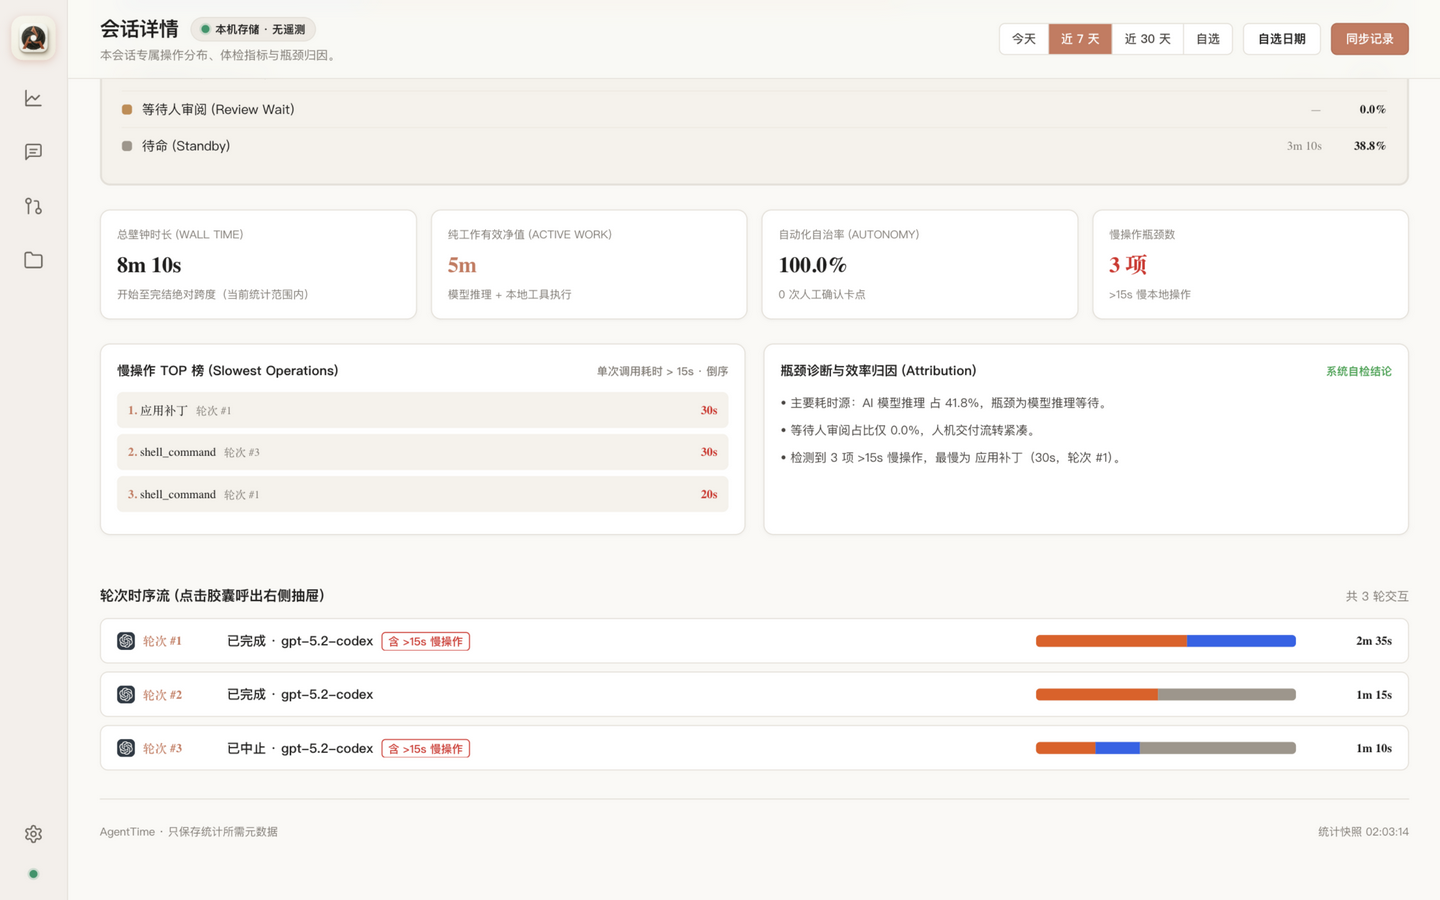
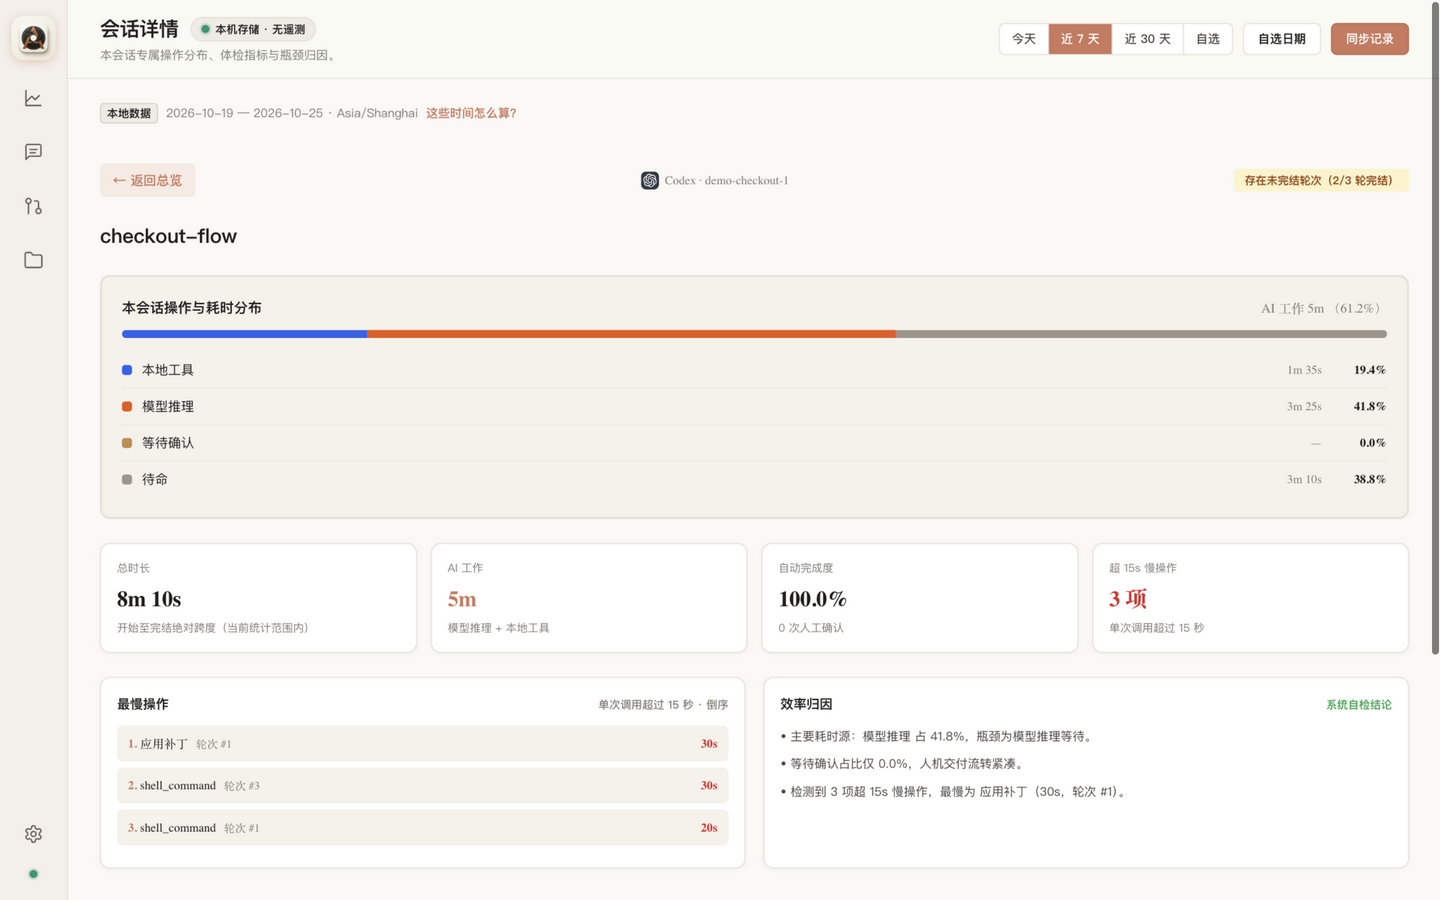
docs: #36 双层语言文档同步与 README 截图重摄
- README 双语:引用界面词面的句子对齐展示层(时间流向/四 KPI/等待确认/按接入工具),口径表保持原词并补两层映射说明
- GLOSSARY:新增「双层语言与展示词」映射表与边界规则,展示词不写成正式术语条目
- DESIGN.md:模块 3 词面同步为时间流向
- docs/assets:5 张截图按原视角(1440x900、同会话同取景)重摄,演示数据集同日再生

diff --git a/README.en.md b/README.en.md
@@ -21,7 +21,7 @@ AgentTime is a **local-first** time ledger for AI coding agents. It imports sess
 
 How much did your agents actually work today — and how much went into waiting for your approval? Open the page and see.
 
-![AgentTime overview: time drop funnel and brush & zoom timeline](docs/assets/hero-overview.png)
+![AgentTime overview: the time-flow funnel and full timeline](docs/assets/hero-overview.png)
 
 ## Why
 
@@ -39,7 +39,9 @@ Typical time tracking counts the whole "start to finish" span as work — **your
 | **Review wait** `review_wait_ms` | Human approval / confirmation blocks | Only counted when the source records approval events; otherwise honestly reported as unknown — never invented |
 | **Standby** `standby_ms` | Reply-finished → next submission interval | Turn boundary arithmetic; includes your reading and thinking time |
 
-Accompanying drill-downs: four turn KPIs (wall time / active work / autonomy / slow ops), per-turn rollup, slowest-operations ranking, per-model and per-thinking-level breakdowns, and per-turn token usage. **Missing evidence is always labeled as such — never extrapolated.** That is AgentTime's first design principle.
+The web UI renders these states as plain-language labels — **AI 工作 / 等待确认 / 待命** — and the in-app "How is this time measured?" dialog maps every label back to the glossary term and field name.
+
+Accompanying drill-downs: four turn KPIs (total time / AI work / auto-completion / 15s+ slow ops), per-turn rollup, slowest-operations ranking, per-model and per-thinking-level breakdowns, and per-turn token usage. **Missing evidence is always labeled as such — never extrapolated.** That is AgentTime's first design principle.
 
 ## Quick start
 
@@ -87,7 +89,7 @@ All imports are read-only; formats keep adapting as upstreams evolve (design dec
 
 ![Turn Inspector drawer](docs/assets/turn-inspector.png)
 
-**Aggregation panels**: top sessions, operations breakdown, per-harness / project / tool rollups.
+**Aggregation panels**: top sessions, operations breakdown, per-source / project / tool rollups.
 
 ![Aggregation panels](docs/assets/analytics-panels.png)
 
@@ -126,7 +128,7 @@ Contributions welcome — new harness adapters, timing-disclosure refinements, a
 
 **Does it slow my agents down?** No. Imports are read-only parsing — no hooks, no injection; your agent processes never notice.
 
-**Why does "review wait" show "—" for some sessions?** That source records no approval events. AgentTime refuses to treat missing evidence as "zero wait" — an intentional honesty policy.
+**Why does "waiting for confirmation" (review wait) show "—" for some sessions?** That source records no approval events. AgentTime refuses to treat missing evidence as "zero wait" — an intentional honesty policy.
 
 **Does any data leave my machine?** No. No telemetry, no uploads, no accounts; all computation and storage stay local.
 

diff --git a/README.md b/README.md
@@ -21,7 +21,7 @@ AgentTime 是一个**本地优先**的 Agent 时间账本：把 Codex、Claude C
 
 你的 Agent 每天到底替你干了多少活、多少时间在等你点头、多少时间在空转？打开页面就能看到。
 
-![AgentTime 总览：耗时蒸发漏斗与全景时间轴](docs/assets/hero-overview.png)
+![AgentTime 总览：时间流向与全景时间轴](docs/assets/hero-overview.png)
 
 ## 为什么需要它
 
@@ -39,7 +39,9 @@ AgentTime 是一个**本地优先**的 Agent 时间账本：把 Codex、Claude C
 | **等待人审阅** `review_wait_ms` | 人工审批/确认卡点 | 仅当来源落盘了审批事件才计入；否则如实标「未知」，不编造 |
 | **待命** `standby_ms` | 上一轮答完到下一轮提交的间隔 | 轮次边界相减，含用户阅读与思考时间 |
 
-配套下钻：轮次四 KPI（总壁钟 / 纯工作 / 自治率 / 慢操作）、单轮耗时构成总账、慢操作 TOP 榜、按模型与思考级别的分项、逐轮 Token 用量。**缺失证据一律如实标注，绝不推算充数**——这是 AgentTime 的第一设计原则。
+界面按展示层短词呈现这三态——**AI 工作 / 等待确认 / 待命**；每个数字背后的术语与字段名，可在页内「这些时间怎么算？」弹窗查到完整三层映射。
+
+配套下钻：轮次四 KPI（总时长 / AI 工作 / 自动完成度 / 超 15s 慢操作）、单轮耗时构成总账、慢操作 TOP 榜、按模型与思考级别的分项、逐轮 Token 用量。**缺失证据一律如实标注，绝不推算充数**——这是 AgentTime 的第一设计原则。
 
 ## 快速开始
 
@@ -89,7 +91,7 @@ agent-time        # 或无连字符别名 agenttime
 
 ![Turn Inspector 抽屉](docs/assets/turn-inspector.png)
 
-**聚合面板**：TOP 会话、操作分布、按 Harness / 项目 / 工具多维汇总。
+**聚合面板**：TOP 会话、操作分布、按接入工具 / 项目 / 工具多维汇总。
 
 ![聚合面板](docs/assets/analytics-panels.png)
 
@@ -128,7 +130,7 @@ npm run dev       # 从源码启动
 
 **会拖慢我的 Agent 吗？** 不会。导入是只读解析，无钩子无注入，Agent 进程完全无感。
 
-**为什么有的会话「等待人审阅」显示「—」？** 该来源没有落盘审批事件，AgentTime 不把缺失证据当作「零等待」。这是刻意为之的诚实口径。
+**为什么有的会话「等待确认」显示「—」？** 该来源没有落盘审批事件，AgentTime 不把缺失证据当作「零等待」。这是刻意为之的诚实口径。
 
 **数据会离开我的电脑吗？** 不会。无遥测、无上报、无账号，全部计算与存储都在本机。
 

diff --git a/GLOSSARY.md b/GLOSSARY.md
@@ -64,3 +64,27 @@ _Avoid_: 提问耗时, 对话框时间
 Antigravity 把长命令转为进程内后台任务（task id 形如 `<会话 ID>/task-N`），后续以轮询与 `SYSTEM_MESSAGE` 完成回执落盘；工具耗时按完成回执时刻结算，未完成的不计（不编造）。`invoke_subagent` 派生按同机制打 `agent_id` 标供下钻。
 _Avoid_: 后台耗时估算, 子任务时长
 
+## 双层语言与展示词 (Display Vocabulary)
+
+Web 前端采用双层语言（issue #36，方案 B）：**展示层说人话，口径层保精确**。展示词只存在于 `public/` 的用户可见文案，不是口径术语，禁止写成正式术语条目；上表术语、`src/` 代码、CSV 表头与 ADR 一律使用口径层原词。界面内「这些时间怎么算？」弹窗提供 展示词 ⇄ 术语 ⇄ 字段 的完整三层映射。
+
+| 展示词（仅 public/ 上屏） | 口径层（术语/口径描述） | 字段 |
+| --- | --- | --- |
+| AI 工作 | 纯工作耗时 | `work_ms` |
+| 等待确认 | 等待人审阅 | `review_wait_ms` |
+| 待命 | 待命时长 | `standby_ms` |
+| 自动完成度 | 自动化自治率 | autonomy_rate |
+| 超 15s 慢操作 | 慢操作瓶颈数 | slow_ops |
+| 模型推理 | 模型推理耗时 | `model_ms` |
+| 本地工具（Bash / Edit 等） | 工具执行耗时 | tool execution |
+| 累计工作时长 | 已记录累计机时（可测区间累加） | `processing_ms` |
+| 并行去重时长 | 物理跨度并集（重叠只计一次） | `processing_union_ms` |
+| 总时长 | 墙钟跨度 wall time（首末轮次首尾跨度） | sessionWallSpan |
+| 时间流向 | 漏斗视图名（旧展示名「耗时蒸发漏斗」已废弃） | — |
+
+**边界规则**：
+
+1. **展示词禁止回流**：不进本表正文条目、代码标识符与口径注释、CSV 表头、ADR 与 docs 口径句；
+2. **口径词不外溢上屏**：`public/` 默认层禁用口径术语与英文括号注（「这些时间怎么算？」弹窗与 CSV 表头除外）；
+3. **harness 品牌名豁免**：Codex、Claude Code、Pi、Antigravity、DeepSeek Harness、Oh-My-Pi、OpenCode 是产品名，两层均保持原样。
+

diff --git a/DESIGN.md b/DESIGN.md
@@ -115,8 +115,8 @@ tokens:
 - **主工作流**：居中自适应宽屏流式排版，最大宽度 1380px；
 - **下钻抽屉**：右侧 480px 弹性滑出抽屉，支持点击时间轴或轮次无缝推入，支持按 `ESC` 键平滑收起。
 
-### 模块 3：核心大盘（耗时蒸发漏斗 Time Drop Funnel）
-- 一屏讲透因果链路：从「总挂载壁钟时长 100% (28.37h)」出发，逐层扣除「人工交互等待卡点 -60.1% (-17.06h)」与「空闲就绪待命 -15.2% (-4.30h)」，最终沉淀出「有效纯工作净值 24.7% (7.01h)」。
+### 模块 3：核心大盘（时间流向）
+- 一屏讲透因果链路：从「记录总时长 100%」出发，逐层扣除「等待确认」与「待命」，最终沉淀「AI 工作」净值。词面为 #36 双层展示词（映射见 GLOSSARY「双层语言与展示词」），下方百分比为历史原型评审数值。
 - 彻底纠正「机器很忙」的错觉，用严密一手数据证明「70.7% 的延时积压在人机交接与等待环节」。
 
 ### 模块 4：时序交互（全景微缩视口滑块 Brush & Zoom）
